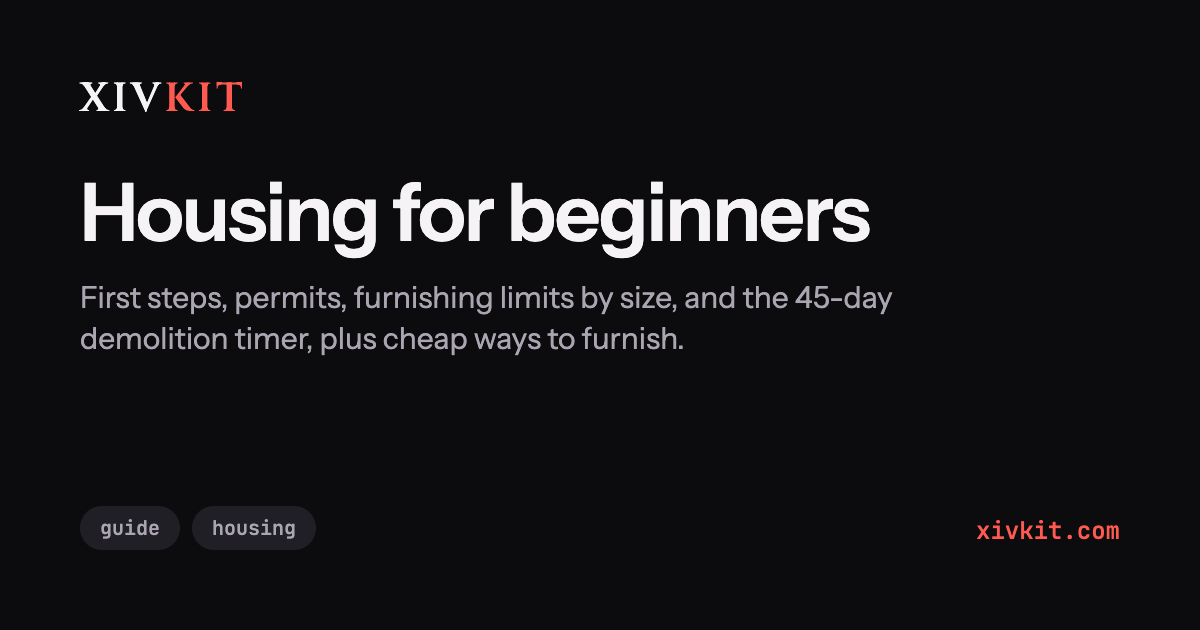
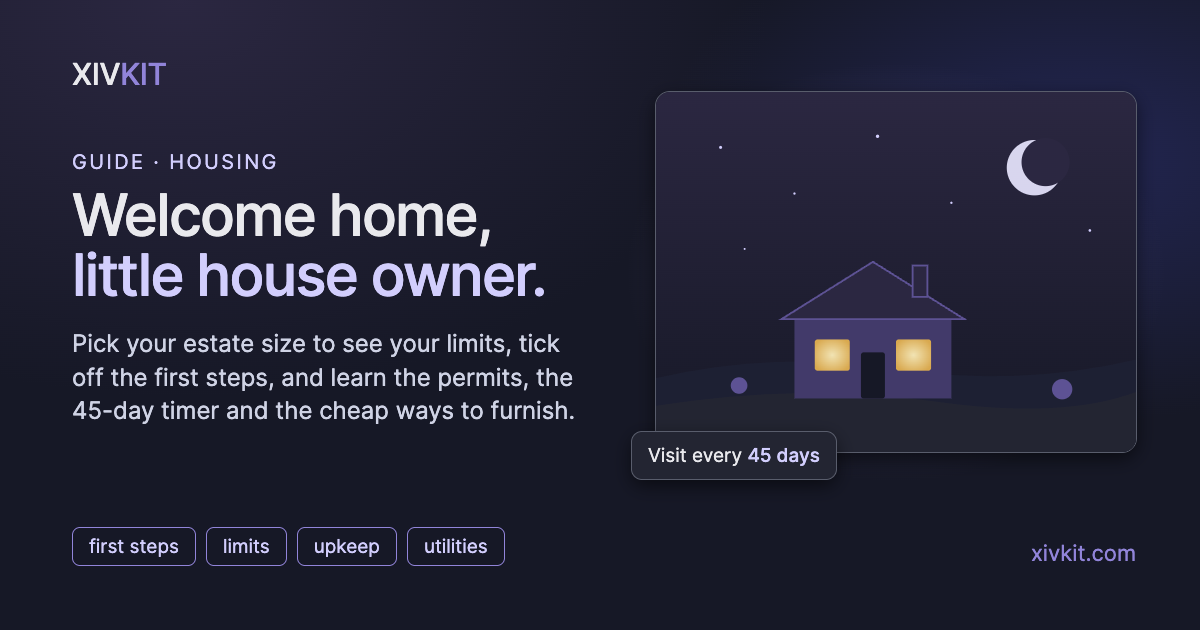
Home page: update the housing guide card and redo its link image in the new look

diff --git a/ja/index.html b/ja/index.html
@@ -421,7 +421,7 @@
         <div class="tags"><button type="button" data-tag-key="market">マーケット</button><button type="button" data-tag-key="gear">装備</button></div>
       </li>
       <li data-tags="guide, housing">
-        <a href="ja/housing-for-beginners.html"><img class="favicon" alt="" loading="lazy" decoding="async" data-icon="og-housing-for-beginners.png"><span class="link-body">Housing for Beginners<span class="desc" data-i18n="items.housingforbeginners">最初にやる順番、許可証と所有権のしくみ、サイズ別の家具の設置上限、フレンドとの共有、45日で取り壊されるタイマー、安く揃える方法までまとめた、ハウジング初心者向けガイド</span></span></a>
+        <a href="ja/housing-for-beginners.html"><img class="favicon" alt="" loading="lazy" decoding="async" data-icon="og-housing-for-beginners.png"><span class="link-body">Housing for Beginners<span class="desc" data-i18n="items.housingforbeginners">家の大きさを選んで上限を確認し、最初のステップにチェックを入れながら、許可証、45日で取り壊されるタイマー、安く揃える方法まで学べます</span></span></a>
         <div class="tags"><button type="button" data-tag-key="guide">ガイド</button><button type="button" data-tag-key="housing">ハウジング</button></div>
       </li>
       <li data-tags="plugins">
@@ -704,7 +704,7 @@
 <script src="https://cdn.jsdelivr.net/npm/i18next@26.4.0/dist/umd/i18next.min.js"></script>
 <script src="https://cdn.jsdelivr.net/npm/i18next-http-backend@4.0.1/i18nextHttpBackend.min.js"></script>
 <script src="https://cdn.jsdelivr.net/npm/i18next-browser-languagedetector@8.2.1/dist/umd/i18nextBrowserLanguageDetector.min.js"></script>
-<script src="i18n.js?v=7b79d2f5"></script>
+<script src="i18n.js?v=7c923658"></script>
 <script>
 (function () {
   var items = Array.prototype.slice.call(document.querySelectorAll('li[data-tags]'));

diff --git a/fr/index.html b/fr/index.html
@@ -421,7 +421,7 @@
         <div class="tags"><button type="button" data-tag-key="market">marché</button><button type="button" data-tag-key="gear">équipement</button></div>
       </li>
       <li data-tags="guide, housing">
-        <a href="fr/housing-for-beginners.html"><img class="favicon" alt="" loading="lazy" decoding="async" data-icon="og-housing-for-beginners.png"><span class="link-body">Housing for Beginners<span class="desc" data-i18n="items.housingforbeginners">Dans quel ordre s'y prendre, comment fonctionnent permis et propriété, limites de mobilier par taille, partage avec des amis, minuteur de démolition de 45 jours et astuces pour meubler à moindre coût</span></span></a>
+        <a href="fr/housing-for-beginners.html"><img class="favicon" alt="" loading="lazy" decoding="async" data-icon="og-housing-for-beginners.png"><span class="link-body">Housing for Beginners<span class="desc" data-i18n="items.housingforbeginners">Choisissez la taille de votre logement pour voir vos limites, cochez les premières étapes et apprenez les permis, le minuteur de démolition de 45 jours et comment meubler à petit prix</span></span></a>
         <div class="tags"><button type="button" data-tag-key="guide">guide</button><button type="button" data-tag-key="housing">logement</button></div>
       </li>
       <li data-tags="plugins">
@@ -704,7 +704,7 @@
 <script src="https://cdn.jsdelivr.net/npm/i18next@26.4.0/dist/umd/i18next.min.js"></script>
 <script src="https://cdn.jsdelivr.net/npm/i18next-http-backend@4.0.1/i18nextHttpBackend.min.js"></script>
 <script src="https://cdn.jsdelivr.net/npm/i18next-browser-languagedetector@8.2.1/dist/umd/i18nextBrowserLanguageDetector.min.js"></script>
-<script src="i18n.js?v=7b79d2f5"></script>
+<script src="i18n.js?v=7c923658"></script>
 <script>
 (function () {
   var items = Array.prototype.slice.call(document.querySelectorAll('li[data-tags]'));

diff --git a/de/index.html b/de/index.html
@@ -421,7 +421,7 @@
         <div class="tags"><button type="button" data-tag-key="market">Markt</button><button type="button" data-tag-key="gear">Ausrüstung</button></div>
       </li>
       <li data-tags="guide, housing">
-        <a href="de/housing-for-beginners.html"><img class="favicon" alt="" loading="lazy" decoding="async" data-icon="og-housing-for-beginners.png"><span class="link-body">Housing for Beginners<span class="desc" data-i18n="items.housingforbeginners">Die richtige Reihenfolge, wie Genehmigungen und Besitz funktionieren, Möbellimits je nach Größe, Teilen mit Freunden, der 45-Tage-Abrisstimer und günstige Einrichtungstipps</span></span></a>
+        <a href="de/housing-for-beginners.html"><img class="favicon" alt="" loading="lazy" decoding="async" data-icon="og-housing-for-beginners.png"><span class="link-body">Housing for Beginners<span class="desc" data-i18n="items.housingforbeginners">Wähle deine Anwesengröße, sieh deine Limits, hake die ersten Schritte ab und lerne Genehmigungen, den 45-Tage-Abrisstimer und günstiges Einrichten kennen</span></span></a>
         <div class="tags"><button type="button" data-tag-key="guide">Guide</button><button type="button" data-tag-key="housing">Behausung</button></div>
       </li>
       <li data-tags="plugins">
@@ -704,7 +704,7 @@
 <script src="https://cdn.jsdelivr.net/npm/i18next@26.4.0/dist/umd/i18next.min.js"></script>
 <script src="https://cdn.jsdelivr.net/npm/i18next-http-backend@4.0.1/i18nextHttpBackend.min.js"></script>
 <script src="https://cdn.jsdelivr.net/npm/i18next-browser-languagedetector@8.2.1/dist/umd/i18nextBrowserLanguageDetector.min.js"></script>
-<script src="i18n.js?v=7b79d2f5"></script>
+<script src="i18n.js?v=7c923658"></script>
 <script>
 (function () {
   var items = Array.prototype.slice.call(document.querySelectorAll('li[data-tags]'));

diff --git a/index.html b/index.html
@@ -419,7 +419,7 @@
         <div class="tags"><button type="button" data-tag-key="market">market</button><button type="button" data-tag-key="gear">gear</button></div>
       </li>
       <li data-tags="guide, housing">
-        <a href="housing-for-beginners.html"><img class="favicon" alt="" loading="lazy" decoding="async" data-icon="og-housing-for-beginners.png"><span class="link-body">Housing for Beginners<span class="desc" data-i18n="items.housingforbeginners">The order to do things in, how permits and ownership work, furnishing limits by size, sharing with friends, the 45-day demolition timer, and cheap ways to furnish</span></span></a>
+        <a href="housing-for-beginners.html"><img class="favicon" alt="" loading="lazy" decoding="async" data-icon="og-housing-for-beginners.png"><span class="link-body">Housing for Beginners<span class="desc" data-i18n="items.housingforbeginners">Pick your estate size to see your limits, tick off the first steps, and learn the permits, the 45-day demolition timer and cheap ways to furnish</span></span></a>
         <div class="tags"><button type="button" data-tag-key="guide">guide</button><button type="button" data-tag-key="housing">housing</button></div>
       </li>
       <li data-tags="plugins">
@@ -702,7 +702,7 @@
 <script src="https://cdn.jsdelivr.net/npm/i18next@26.4.0/dist/umd/i18next.min.js"></script>
 <script src="https://cdn.jsdelivr.net/npm/i18next-http-backend@4.0.1/i18nextHttpBackend.min.js"></script>
 <script src="https://cdn.jsdelivr.net/npm/i18next-browser-languagedetector@8.2.1/dist/umd/i18nextBrowserLanguageDetector.min.js"></script>
-<script src="i18n.js?v=7b79d2f5"></script>
+<script src="i18n.js?v=7c923658"></script>
 <script>
 (function () {
   var items = Array.prototype.slice.call(document.querySelectorAll('li[data-tags]'));

diff --git a/inventory-decluttering.html b/inventory-decluttering.html
@@ -350,7 +350,7 @@ footer .legal{font-size:.75rem;opacity:.7}
 <script src="https://cdn.jsdelivr.net/npm/i18next@26.4.0/dist/umd/i18next.min.js"></script>
 <script src="https://cdn.jsdelivr.net/npm/i18next-http-backend@4.0.1/i18nextHttpBackend.min.js"></script>
 <script src="https://cdn.jsdelivr.net/npm/i18next-browser-languagedetector@8.2.1/dist/umd/i18nextBrowserLanguageDetector.min.js"></script>
-<script src="i18n.js?v=7b79d2f5"></script>
+<script src="i18n.js?v=7c923658"></script>
 <script>
 // Content for the Inventory Decluttering page.
 const ICON = p => `https://beta.xivapi.com/api/1/asset?path=ui/icon/${p}.tex&format=png`;

diff --git a/fanfest-bingo.html b/fanfest-bingo.html
@@ -710,7 +710,7 @@ h1{margin:0;font-family:var(--serif);font-weight:900;font-size:clamp(40px,7vw,72
 <script src="https://cdn.jsdelivr.net/npm/i18next@26.4.0/dist/umd/i18next.min.js"></script>
 <script src="https://cdn.jsdelivr.net/npm/i18next-http-backend@4.0.1/i18nextHttpBackend.min.js"></script>
 <script src="https://cdn.jsdelivr.net/npm/i18next-browser-languagedetector@8.2.1/dist/umd/i18nextBrowserLanguageDetector.min.js"></script>
-<script src="i18n.js?v=7b79d2f5"></script>
+<script src="i18n.js?v=7c923658"></script>
 <script type="application/ld+json">
 {
   "@context": "https://schema.org",

diff --git a/keybound-brawler.html b/keybound-brawler.html
@@ -349,7 +349,7 @@ h2{margin:0;font-family:var(--display);font-weight:400;font-size:28px;color:var(
 <script src="https://cdn.jsdelivr.net/npm/i18next@26.4.0/dist/umd/i18next.min.js"></script>
 <script src="https://cdn.jsdelivr.net/npm/i18next-http-backend@4.0.1/i18nextHttpBackend.min.js"></script>
 <script src="https://cdn.jsdelivr.net/npm/i18next-browser-languagedetector@8.2.1/dist/umd/i18nextBrowserLanguageDetector.min.js"></script>
-<script src="i18n.js?v=7b79d2f5"></script>
+<script src="i18n.js?v=7c923658"></script>
 <script type="application/ld+json">
 {
   "@context": "https://schema.org",

diff --git a/de/housing-for-beginners.html b/de/housing-for-beginners.html
@@ -460,7 +460,7 @@
 <script src="https://cdn.jsdelivr.net/npm/i18next@26.4.0/dist/umd/i18next.min.js"></script>
 <script src="https://cdn.jsdelivr.net/npm/i18next-http-backend@4.0.1/i18nextHttpBackend.min.js"></script>
 <script src="https://cdn.jsdelivr.net/npm/i18next-browser-languagedetector@8.2.1/dist/umd/i18nextBrowserLanguageDetector.min.js"></script>
-<script src="i18n.js?v=7b79d2f5"></script>
+<script src="i18n.js?v=7c923658"></script>
 <script>
 (function () {
   // Everything here is an enhancement: with no script the page shows the small-house numbers

diff --git a/fr/housing-for-beginners.html b/fr/housing-for-beginners.html
@@ -460,7 +460,7 @@
 <script src="https://cdn.jsdelivr.net/npm/i18next@26.4.0/dist/umd/i18next.min.js"></script>
 <script src="https://cdn.jsdelivr.net/npm/i18next-http-backend@4.0.1/i18nextHttpBackend.min.js"></script>
 <script src="https://cdn.jsdelivr.net/npm/i18next-browser-languagedetector@8.2.1/dist/umd/i18nextBrowserLanguageDetector.min.js"></script>
-<script src="i18n.js?v=7b79d2f5"></script>
+<script src="i18n.js?v=7c923658"></script>
 <script>
 (function () {
   // Everything here is an enhancement: with no script the page shows the small-house numbers

diff --git a/housing-for-beginners.html b/housing-for-beginners.html
@@ -458,7 +458,7 @@
 <script src="https://cdn.jsdelivr.net/npm/i18next@26.4.0/dist/umd/i18next.min.js"></script>
 <script src="https://cdn.jsdelivr.net/npm/i18next-http-backend@4.0.1/i18nextHttpBackend.min.js"></script>
 <script src="https://cdn.jsdelivr.net/npm/i18next-browser-languagedetector@8.2.1/dist/umd/i18nextBrowserLanguageDetector.min.js"></script>
-<script src="i18n.js?v=7b79d2f5"></script>
+<script src="i18n.js?v=7c923658"></script>
 <script>
 (function () {
   // Everything here is an enhancement: with no script the page shows the small-house numbers

diff --git a/ja/housing-for-beginners.html b/ja/housing-for-beginners.html
@@ -460,7 +460,7 @@
 <script src="https://cdn.jsdelivr.net/npm/i18next@26.4.0/dist/umd/i18next.min.js"></script>
 <script src="https://cdn.jsdelivr.net/npm/i18next-http-backend@4.0.1/i18nextHttpBackend.min.js"></script>
 <script src="https://cdn.jsdelivr.net/npm/i18next-browser-languagedetector@8.2.1/dist/umd/i18nextBrowserLanguageDetector.min.js"></script>
-<script src="i18n.js?v=7b79d2f5"></script>
+<script src="i18n.js?v=7c923658"></script>
 <script>
 (function () {
   // Everything here is an enhancement: with no script the page shows the small-house numbers

diff --git a/de/msq-tracker.html b/de/msq-tracker.html
@@ -630,7 +630,7 @@ footer.sources .legal{font-size:13px}
 <script src="https://cdn.jsdelivr.net/npm/i18next@26.4.0/dist/umd/i18next.min.js"></script>
 <script src="https://cdn.jsdelivr.net/npm/i18next-http-backend@4.0.1/i18nextHttpBackend.min.js"></script>
 <script src="https://cdn.jsdelivr.net/npm/i18next-browser-languagedetector@8.2.1/dist/umd/i18nextBrowserLanguageDetector.min.js"></script>
-<script src="i18n.js?v=7b79d2f5"></script>
+<script src="i18n.js?v=7c923658"></script>
 <script type="application/ld+json">
 {
   "@context": "https://schema.org",
